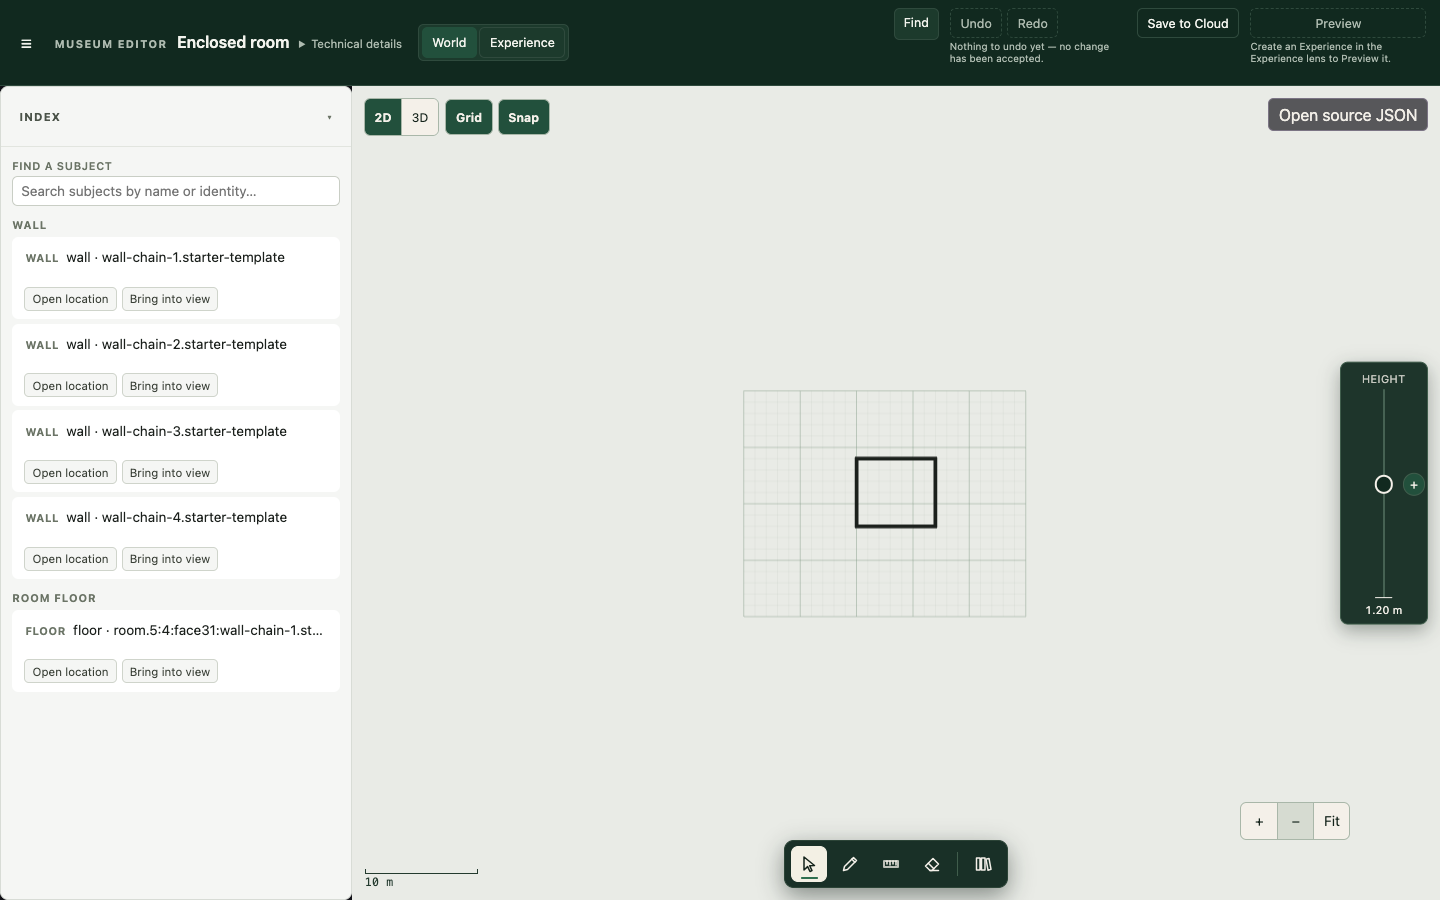
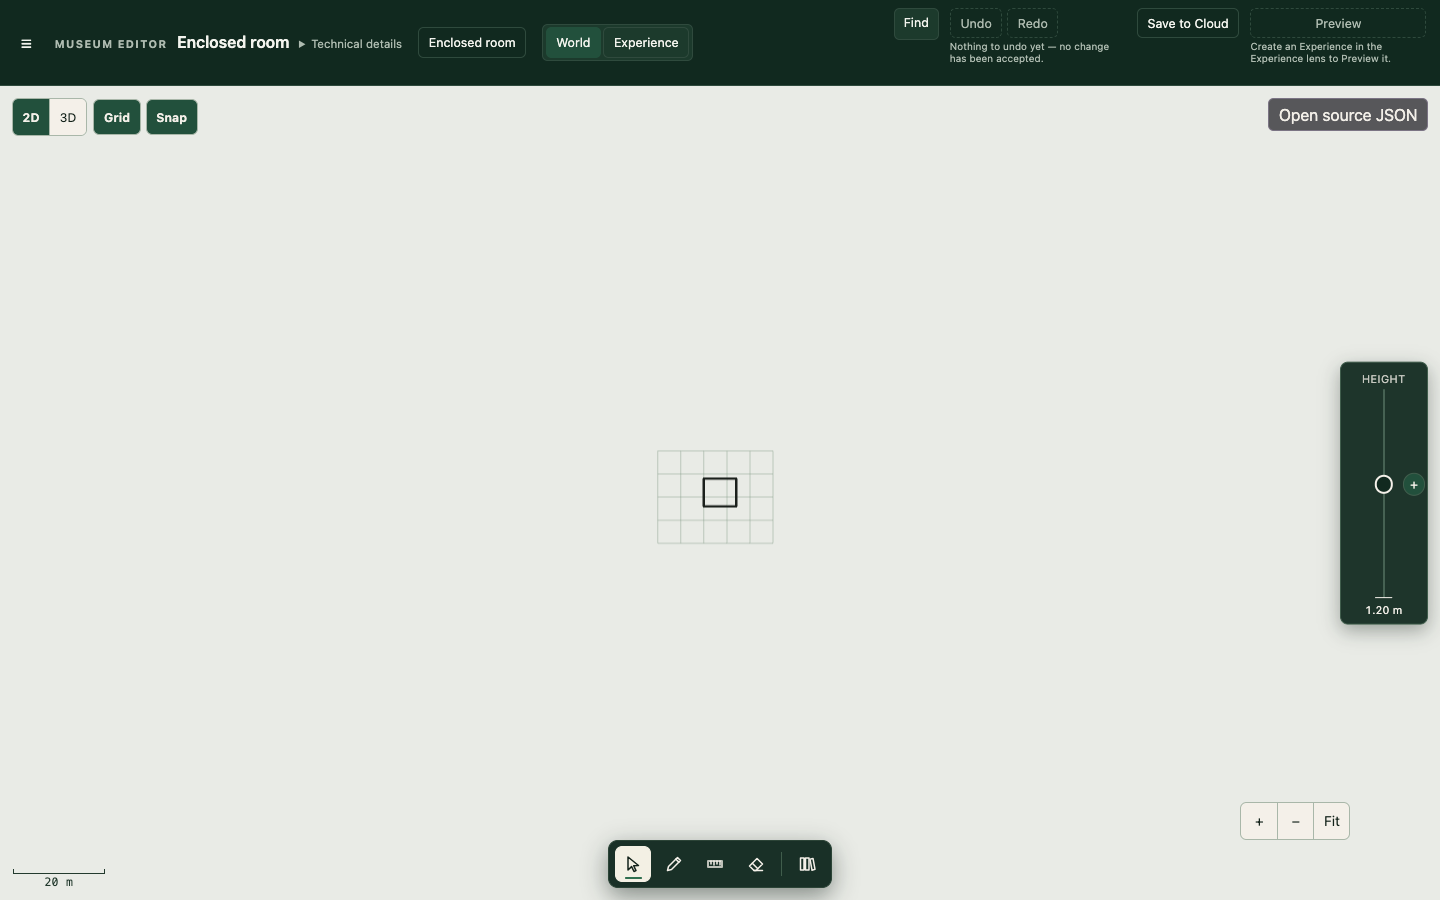
R217.S13: complete browser acceptance
Check all four required widths with the Ink palette open, the full zoom range,
the 3D word toggles and the wireframe comparison. The palette lift exposed a
10 px zoom/Sheet overlap, now cleared with a 4 px gap and guarded by a route
test.

🤖 Generated with Codebuff

diff --git a/apps/editor/tests/lib/authoring/spatial-route-gesture.test.ts b/apps/editor/tests/lib/authoring/spatial-route-gesture.test.ts
@@ -1124,6 +1124,14 @@ describe('R217.S05 — mounted drafting furniture', () => {
 		expect(request.mock.calls.at(-1)![0]).toMatchObject({ kind: 'fit' });
 	});
 
+	it('clears the Height Sheet when the lower column lifts the zoom cluster', () => {
+		// Geometry is browser calibration; the route owns the clearance rule. A
+		// regression here let the lifted cluster overlap the Sheet by 10 px.
+		const route = readFileSync('src/routes/project/[projectId]/spatial/+page.svelte', 'utf8');
+		expect(route).toMatch(/\.stage-zoom-slot\.sheet-right\s*\{[^}]*right:\s*calc\(5\.5rem \+ 1rem\)/s);
+		expect(target.querySelector('.stage-zoom-slot')?.classList.contains('sheet-right')).toBe(true);
+	});
+
 	it('strikes the off words and centres the ruler label below its rule', () => {
 		const control = readFileSync('src/lib/authoring/stage/shell/StageDraftingControl.svelte', 'utf8');
 		expect(control).toMatch(/text-decoration:\s*line-through/);

diff --git a/apps/editor/src/routes/project/[projectId]/spatial/+page.svelte b/apps/editor/src/routes/project/[projectId]/spatial/+page.svelte
@@ -4083,9 +4083,13 @@ import type { GridRect } from '$lib/authoring/stage/stage-grid';
 		display: flex;
 		gap: 0.4rem;
 	}
-	/* The Height Sheet owns the right edge; the cluster moves aside for it. */
+	/*
+		The Height Sheet owns the right edge; the cluster clears its 5.5 rem body
+		plus the 0.75 rem Stage inset, with a 4 px gap. This also holds when the
+		lower column (dock plus palette) lifts the cluster up beside the Sheet.
+	*/
 	.stage-zoom-slot.sheet-right {
-		right: 5.6rem;
+		right: calc(5.5rem + 1rem);
 	}
 	.stage-project-actions {
 		position: absolute;

diff --git a/docs/roadmap/r217-core-editor-stability/r217.s13-drafting-simplification/evidence/README.md b/docs/roadmap/r217-core-editor-stability/r217.s13-drafting-simplification/evidence/README.md
@@ -1,57 +1,79 @@
 # R217.S13 browser evidence — Drafting simplification
 
-Nine Chromium captures at **1440 × 900 CSS px**, DPR 1, against the Vite dev server on
-2026-10-30. The project is the canonical starter **Enclosed room**; no cloud Save was made.
+Fourteen Chromium captures against the Vite dev server on 2026-10-30, at the four
+required widths: **1440 × 900** (captures 01–09, 13 and 14), **1280 × 800** (10),
+**1180 × 820** (11) and **820 × 1180** (12). DPR 1. The project is the canonical
+starter **Enclosed room**; no cloud Save was made.
 
 | Capture | State shown | Bytes | SHA-256 |
 | --- | --- | ---: | --- |
[23 lines of base64/hex data omitted]
 
-Total renderable evidence: **9 PNG files / 929,706 bytes**. The downloaded source from capture 09 is
+Total renderable evidence: **14 PNG files / 890,250 bytes**. The downloaded source from capture 09 is
 preserved beside them as [two-zoom-source.json](2026-10-30-browser/two-zoom-source.json) (6,909 bytes, SHA-256
[1 lines of base64/hex data omitted]
 
 ## What the journey established
 
-- **Bounded local sheet (D39).** Capture 04 shows the grid as a crisp-edged sheet around the
-  room instead of a full-viewport lattice; capture 05 shows the same sheet at a far zoom. The
-  sheet does not move the Camera: the target and framing stay put across every press.
+- **Bounded local sheet (D39).** Captures 01, 02, 04 and 05 show the grid as a crisp-edged sheet
+  around the room rather than a full-viewport lattice. The sheet does not move the Camera: the
+  target and framing stay put across every press.
 - **Fixed values and thinning (D30, O7).** Captures 01–05 change only the projected spacing.
-  No interval value or control changed; Grid still reads `Grid`, Snap `Snap`. The 25 m
-  hand-off is proven numerically in `stage-grid.test.ts`; capture 05 is still showing the 5 m
-  level, so the hand-off is not claimed from a still.
-- **Ruler (D41).** Captures 01–05 and 08 show a 1 px rule with two 5 px end ticks and the
-  distance below, with no fill, border or badge. Capture 06 shows it absent in 3D.
-- **Zoom and Fit cluster (D40).** The `+`, `−` and `Fit` cluster is present in Plan and 3D and
-  did not overlap the Height Sheet or the lower column at 1440 × 900. Every press requested a
-  Camera intent; no new intent kind exists.
+  No interval value or control changed; Grid still reads `Grid`, Snap `Snap`. At the zoom-out
+  limit the sheet is smaller than one 25 m interval, so the ruler is the only visible reference;
+  the exact 25 m hand-off at its fade threshold is proven numerically in `stage-grid.test.ts`.
+- **Full zoom range.** Capture 03 is the zoom-in limit (ruler 0.005 m, 81 px); capture 05 is the
+  zoom-out limit (ruler 100 m, 81 px). No interval flicker or value change appeared between them.
+- **Ruler (D41).** Captures 01–05 and 08 show a 1 px rule with two 5 px end ticks, the distance
+  centred below it, and no fill, border or badge. Capture 06 shows it absent in settled 3D, and
+  the Experience check showed it absent there too.
+- **Zoom and Fit cluster (D40).** The `+`, `−` and `Fit` cluster is present in Plan and 3D in the
+  World lens, and absent in Experience. Measured boxes at 1440 × 900, 1280 × 800, 1180 × 820 and
+  820 × 1180 show no overlap with the ruler, Height Sheet, dock, Ink palette or Index. The palette
+  lifts the cluster; at 1440 × 900 its right edge is 3.6 px left of the Sheet (capture 14). Every
+  press requested a Camera intent; no new intent kind exists.
+- **Off words (D42).** In 3D, Grid and Snap were each turned off and reported `Grid off` /
+  `Snap off`; `getComputedStyle` returned `text-decoration-line: line-through` and `opacity: 0.5`
+  for both, while the 2D/3D segmented control kept its own selected treatment. Capture 13 is that
+  state; capture 08 is the same check in Plan. Both returned to `Grid` / `Snap` on the next press.
+- **Quiet Paper is not claimed.** At this Plan appearance the cluster is the dark chassis ink;
+  the captures and this record make no quiet-Paper visual claim.
 - **Scale detents (O8).** Capture 07 shows all five detents in Find. The Scale word, interval
-  menu and ⚙ are absent from the drafting cluster; the Head's Viewing group has no Grid
-  interval or Snap checkbox.
+  menu and ⚙ are absent from the drafting cluster; the Head's Viewing group has no Grid interval
+  or Snap checkbox.
+- **Experience lens.** Switching to Experience removed the ruler, zoom cluster and Height Sheet;
+  returning to World restored them. The drafting cluster itself is unchanged in this slice.
+- **Wireframe comparison.** Compared with
+  [prototype-2d-1440.png](../../post-s10-convergence/evidence/prototype-2d-1440.png): the
+  cluster (2D | 3D · Grid · Snap), lower-left ruler and lower-right zoom/Fit furniture match the
+  wireframe's structure. The remaining differences are PLATE calibration (this Plan appearance
+  uses the dark chassis ink; zoom is a horizontal cluster rather than a vertical strip), not a
+  drafting-value or layering difference.
 - **Two-zoom lattice.** A Wall drawn after Fit and a second drawn after two 1.25× zoom-in
   presses were downloaded from **Download source JSON** into
   [two-zoom-source.json](2026-10-30-browser/two-zoom-source.json). The new Junction points in
   `units.layout.data.junctions` are `-1.5,1.5`, `-1,1.5`, `-3,-2.5` and `-2,-2.5`; every
   coordinate is an exact multiple of 0.5 m, so the two free drawings share one lattice.
-- **D43 did not reproduce.** The 2D/3D control responded on the first press in this fresh
-  session, and on every later press; no dead first click was observed.
+- **D43 did not reproduce.** The 2D/3D control responded on the first press in this session, and
+  on every later press; no dead first click was observed.
 
 ## Limits
 
-These are settled endpoints. A mid-fade still cannot prove the 16 → 8 px opacity rule, the
-`25 m` hand-off, or the absence of interval flicker; those are proven numerically in
-`apps/editor/tests/lib/authoring/stage-grid.test.ts`. The observed far endpoint still shows
-5 m, so the browser run does not claim the hidden-grid endpoint or the ruler as the only
-reference. The stills predate the final visual revision; the struck-through off words and the
-centred ruler label are verified by the route/source tests, not by these captures. Exact ruler/zoom/Sheet collision behaviour
-at narrower widths and with the palette open is browser calibration, not claimed here. The
-starter's Room-floor fill covers the Paper grid inside the room; the bounded sheet and its
-crisp edges remain visible around the work and were not treated as a new defect in this slice.
+These are settled endpoints. A mid-fade still cannot prove the 16 → 8 px opacity rule or the
+absence of interval flicker; those are proven numerically in
+`apps/editor/tests/lib/authoring/stage-grid.test.ts`. Native touch and Safari remain S11's. The
+starter's Room-floor fill covers the Paper grid inside the room; the bounded sheet and its crisp
+edges remain visible around the work and were not treated as a new defect in this slice.

diff --git a/docs/roadmap/r217-core-editor-stability/r217.s13-drafting-simplification/acceptance.md b/docs/roadmap/r217-core-editor-stability/r217.s13-drafting-simplification/acceptance.md
@@ -33,29 +33,38 @@ are updated at this cutover.
 Tier: `affected-subsystem`; the integrated result remains owed to
 [R217.S11](../r217.s11-integrated-final-gate/implementation-plan.md).
 
-- `npm test`: **248 files / 3,188 tests passed**.
+- `npm test`: **248 files / 3,189 tests passed**.
 - `npm run test:arch`: **23 files / 194 tests passed**.
 - `npm run check`: **0 errors, 0 warnings**.
 - `stage-drafting.test.ts` pins the fixed state, the 0.5 m increment at every zoom, off/held
   independence and the one rounding/tie rule. `stage-grid.test.ts` pins only 1/5/25 m values, the
   16→8 fade and 8 px hide, the 25 m hand-off, the bounded/fitted/growing sheet, world anchoring and
   the line-count bound. `spatial-route-gesture.test.ts` pins Find detents, Fit/zoom intents, the
-  Plan-only ruler, the fixed words, the quiet off states and the absence of the Scale/config
-  disclosures. `stage-session.test.ts`, `layout-drawing-adapter.test.ts`, `scene-editing-surface.test.ts`,
+  Plan-only ruler, the fixed words, the off words, the strike-through rule, ruler centring and
+  the palette-lift clearance, and the absence of the Scale/config disclosures. `stage-session.test.ts`, `layout-drawing-adapter.test.ts`, `scene-editing-surface.test.ts`,
   `shape-reading-adapter.test.ts` and `stage-host-tools.test.ts` cover the consumer seam.
 
-Browser, Chromium at 1440 × 900 on the local editor, starter **Enclosed room**:
+Browser, Chromium at **1440 × 900, 1280 × 800, 1180 × 820 and 820 × 1180** on the local
+editor, starter **Enclosed room**:
 
-- Plan at Fit, four zoom-outs, six zoom-ins, ten more zoom-outs and eighteen zoom-outs show a
-  crisp bounded sheet and fixed-value thinning across a wide projected range; no interval control
-  changed and no value flickered. The observed far endpoint still shows 5 m; the 25 m hand-off and
-  the ruler-only endpoint are proven numerically, not claimed from a still.
-- The ruler is a line with end ticks and no fill in Plan, and absent in settled 3D. The `+`, `−` and
-  `Fit` cluster is present in both readings and does not overlap the Height Sheet or lower column at
-  this width.
+- The full zoom range was used: the zoom-in limit reads `0.005 m` on an 81 px rule and the
+  zoom-out limit reads `100 m` on an 81 px rule. At the far endpoint the bounded sheet is smaller
+  than one 25 m interval, so the ruler is the only visible reference; no interval control changed
+  and no value flickered. The exact 25 m hand-off at its fade threshold remains numerically proven.
+- The ruler is a line with end ticks, its distance centred below, and no fill in Plan. It is absent
+  in settled 3D and in Experience. The `+`, `−` and `Fit` cluster is present in Plan and 3D in the
+  World lens and absent in Experience. Measured boxes at all four required widths, including with
+  the Ink palette open, show no overlap between the ruler, zoom cluster, Height Sheet, dock, palette
+  or Index; at 1440 × 900 palette-open the cluster's right edge is 3.6 px left of the Sheet.
 - Head Find filtered to `Scale` lists `Zoom Scale 1:20 · 1:50 · 1:100 · 1:200 · 1:500`. The Scale
   word, interval menu and ⚙ are absent.
-- Grid and Snap toggle to the words `Grid off` and `Snap off` on quiet Paper.
+- Grid and Snap toggle to the words `Grid off` and `Snap off` in Plan and 3D. Both off words
+  computed as `text-decoration-line: line-through` and `opacity: 0.5`; the 2D/3D segmented control
+  kept its own selected treatment. This Plan appearance uses the dark chassis ink, so no quiet
+  Paper claim is made.
+- Compared with the wireframe's [2D capture](../post-s10-convergence/evidence/prototype-2d-1440.png),
+  the cluster, lower-left ruler and lower-right zoom/Fit furniture match in structure; the
+  remaining differences are PLATE calibration, not a drafting-value or layering difference.
 - Two free Walls, one drawn at Fit and one after two zoom-in presses, were downloaded from
   **Download source JSON** and preserved as [two-zoom-source.json](./evidence/2026-10-30-browser/two-zoom-source.json).
   The new Junction points are `-1.5,1.5`, `-1,1.5`, `-3,-2.5` and `-2,-2.5`; every coordinate is
@@ -66,11 +75,12 @@ Captures and byte hashes are in the [evidence record](./evidence/README.md).
 
 ## Evidence limits
 
-One Chromium session at 1440 × 900; native touch, Safari, narrow-width collision calibration and the
-integrated R217 journeys remain S11's. Mid-fade continuity and the exact 25 m hand-off are numerical
-tests, not still frames. The starter's Room-floor fill covers the Paper grid inside the room; the
-bounded sheet and its crisp edges remain visible around the work and were not treated as a new defect
-in this slice. 3D clipping remains R217.S19.
+One Chromium session at the four required widths; native touch, Safari and the integrated R217
+journeys remain S11's. Mid-fade continuity and the exact 25 m hand-off are numerical tests, not
+still frames. Capture 09 predates the final shell visual and is retained only for the two-zoom
+drawing; the lattice claim is carried by its source JSON. The starter's Room-floor fill covers the
+Paper grid inside the room; the bounded sheet and its crisp edges remain visible around the work and
+were not treated as a new defect in this slice. 3D clipping remains R217.S19.
 
 ## Residuals
 
